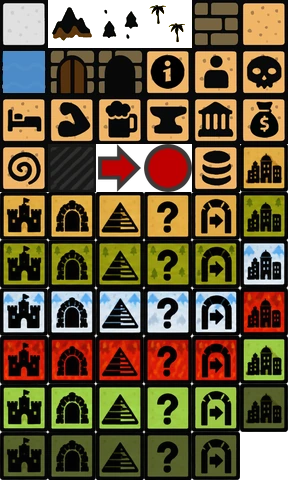
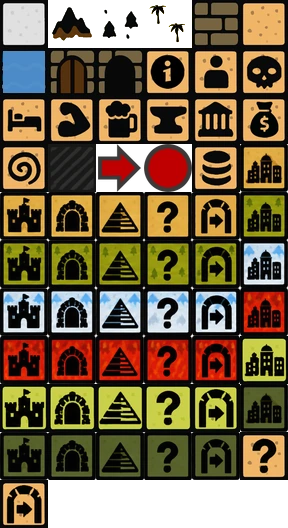
Auto-commit: 14 file(s) (docs/HANDOVER.md,docs/RPG_0.1.xlsx,public/assets/ui/minimap.json)

diff --git a/tools/assets/build-minimap.ts b/tools/assets/build-minimap.ts
@@ -36,9 +36,23 @@ const SHEET_GROUNDS = ["desert", "dirt", "snow", "forest", "lava"] as const;
  * by `target / its mean`, so the grain of the paint stays. Meadow is the forest's green made lighter and fresher, swamp its green made
  * darker and muddier. Black (frame, symbol) stays black.
  */
-const MADE_GROUNDS: Record<string, [number, number, number]> = { meadow: [152, 198, 66], swamp: [84, 94, 40] };
+const MADE_GROUNDS: Record<string, [number, number, number]> = { swamp: [84, 94, 40] };
 /** The grounds of the sheet in the register, as the game names them (`PlaceGround` in `minimapIcons.ts`). */
 const PLACE_GROUNDS = ["desert", "forest", "snow", "lava", "meadow", "swamp"] as const;
+/**
+ * Single tiles painted later to correct the colours of the sheet (the user's `tex_mm_<ground>_<symbol>.png`, 100 px, frame included). `grass`
+ * is the meadow, which was the desert row tinted green and came out too dull; `town` is the ground inside towns, castles and dungeons, where
+ * only the question mark and the way out are shown (`INTERIOR_GROUND`). The meadow has no way out (nothing draws one on the overworld), so
+ * that tile is the interior's one moved to the meadow's colour.
+ */
+const PAINTED_DIR = join(ROOT, "tools", "assets", "sources", "minimap", "tiles");
+const PAINTED: [string, string][] = [
+  ["town:meadow", "tex_mm_grass_town"], ["castle:meadow", "tex_mm_grass_castle"], ["dungeon:meadow", "tex_mm_grass_dungeon"],
+  ["pyramid:meadow", "tex_mm_grass_pyramid"], ["event:meadow", "tex_mm_grass_event"], ["event:town", "tex_mm_town_event"], ["exit:town", "tex_mm_town_exit"],
+];
+const paintedFile = (base: string): string => join(PAINTED_DIR, `${base}.png`);
+/** The tiles that exist only on the interior ground. */
+const INTERIOR_TILES = ["event:town", "exit:town"];
 
 /** The tiles that are the neutral ground in another colour: `name` in the register, source file. */
 const GROUNDS: [string, string][] = [
@@ -204,7 +218,7 @@ async function placeTiles(): Promise<Map<string, Buffer>> {
     }
   }
 
-  // meadow and swamp: the plain desert tiles with the colour of the ground moved to the wanted one
+  // the swamp: the plain desert tiles with the colour of the ground moved to the wanted one
   const sand = tiles.get("event:desert")!;
   const base = paintMean(sand);
   for (const [ground, target] of Object.entries(MADE_GROUNDS)) {
@@ -215,18 +229,26 @@ async function placeTiles(): Promise<Map<string, Buffer>> {
       tiles.set(`${kind}:${ground}`, made);
     }
   }
+
+  // the painted corrections replace what was made; the meadow's way out follows the interior's by the colour the question marks differ by
+  for (const [name, file] of PAINTED) tiles.set(name, (await raw(paintedFile(file))).data);
+  const from = paintMean(tiles.get("event:town")!);
+  const to = paintMean(tiles.get("event:meadow")!);
+  const exit = Buffer.from(tiles.get("exit:town")!);
+  for (let p = 0; p < exit.length; p += 4) for (let c = 0; c < 3; c++) exit[p + c] = Math.min(255, Math.round(exit[p + c]! * (to[c]! / from[c]!)));
+  tiles.set("exit:meadow", exit);
   return tiles;
 }
 
 export async function buildMinimap(): Promise<{ bytes: number }> {
   const out = join(OUT, "ui", "minimap.webp");
   const registerFile = join(OUT, "ui", "minimap.json");
-  const sources = [...SYMBOLS.map((s) => src(`tex_mm_${s}`)), ...GROUNDS.map(([, f]) => src(f)), ...DRAWINGS.flatMap(([, a, b]) => [src(a), src(b)]), src("tex_mm_snow"), PLACE_SHEET, join(import.meta.filename)];
+  const sources = [...SYMBOLS.map((s) => src(`tex_mm_${s}`)), ...GROUNDS.map(([, f]) => src(f)), ...DRAWINGS.flatMap(([, a, b]) => [src(a), src(b)]), src("tex_mm_snow"), PLACE_SHEET, ...PAINTED.map(([, f]) => paintedFile(f)), join(import.meta.filename)];
   if (upToDate(out, ...sources) && upToDate(registerFile, ...sources)) return { bytes: statSync(out).size + statSync(registerFile).size };
   ensureDir(out);
 
   // the sheet: neutral ground, three drawings, then the symbols
-  const places = PLACE_GROUNDS.flatMap((ground) => PLACE_KINDS.map((kind) => `${kind}:${ground}`));
+  const places = [...PLACE_GROUNDS.flatMap((ground) => PLACE_KINDS.map((kind) => `${kind}:${ground}`)), ...INTERIOR_TILES];
   const names = ["ground", "mountain", "trees", "palms", ...SYMBOLS, ...places];
   const sheetW = COLUMNS * CELL;
   const sheetH = Math.ceil(names.length / COLUMNS) * CELL;

diff --git a/src/game/minimapIcons.ts b/src/game/minimapIcons.ts
@@ -6,13 +6,13 @@ import { assetPath } from "../ui/dom";
  * the register's colours; mountains, trees and palms are drawings on a transparent ground that go on top. Tiles made this way are cached, so the
  * map draws from a handful of small canvases and the page loads one picture instead of 38. The places (town, castle, dungeon or cave, pyramid), the
  * question mark of events and the way out are painted tiles in six grounds (`mm_tiles.png`, see `build-minimap.ts`): on the overworld each stands on
- * the ground of its region, in an interior on the desert's, which is the colour of the old floor.
+ * the ground of its region, in an interior on the `town` ground, which is the colour of the old floor.
  */
 export type GroundName = "grass" | "forest" | "desert" | "snow" | "swamp" | "volcanic" | "dirt" | "bridge" | "floor" | "lava" | "cobble" | "shore";
 export type DrawingName = "mountain" | "trees" | "palms";
 /** The painted symbols of places and events; the ground is the colour of the tile they stand on. */
 export type PlaceName = "town" | "castle" | "dungeon" | "pyramid" | "event" | "exit";
-export type PlaceGround = "meadow" | "forest" | "desert" | "snow" | "swamp" | "lava";
+export type PlaceGround = "meadow" | "forest" | "desert" | "snow" | "swamp" | "lava" | "town";
 /** `event` and `exit` are the painted tiles on the interior ground (`INTERIOR_GROUND`). */
 export type SymbolName =
   | "wall" | "floor" | "water" | "door" | "door_open" | "event" | "info" | "persona" | "trap" | "exit"
@@ -32,8 +32,8 @@ const DERIVED: Partial<Record<GroundName, { from: string; by: [number, number, n
   shore: { from: "desert", by: [0.95, 0.95, 0.95] },
 };
 
-/** The ground the painted tiles have inside a town, castle, dungeon or cave: the old floor's colour. */
-const INTERIOR_GROUND: PlaceGround = "desert";
+/** The ground the painted tiles have inside a town, castle, dungeon or cave: the old floor's colour (only `event` and `exit` are painted on it). */
+const INTERIOR_GROUND: PlaceGround = "town";
 
 /** The painted ground that goes with a ground of the overworld map (the sheet has no cobblestone, bridge or plain dirt tile). */
 const PLACE_GROUND: Record<GroundName, PlaceGround> = {

diff --git a/tests/unit/minimapPlaces.test.ts b/tests/unit/minimapPlaces.test.ts
@@ -45,6 +45,8 @@ describe("the painted tiles of places, events and ways out on the map sheet", ()
         expect(at!.y + register.cell, `${kind}:${ground}`).toBeLessThanOrEqual(register.height);
       }
     }
+    // the interior's question mark and way out have their own ground (the old floor's colour)
+    for (const name of ["event:town", "exit:town"]) expect(register.icons[name], name).toBeDefined();
     // the plain old symbols for these were replaced
     expect(register.icons.maptransfer).toBeUndefined();
     expect(register.icons.event).toBeUndefined();

diff --git a/docs/HANDOVER.md b/docs/HANDOVER.md
@@ -610,6 +610,7 @@ Der Nutzer lieferte `.ignore/mm_tiles.png` (6 Symbole × 5 Böden, transparenter
 - **Wiese (hellgrün) und Sumpf** fehlten und kommen aus der Wüstenzeile (ohne Zeichnung): Farbe × `Ziel / Mittel` (`MADE_GROUNDS`: Wiese 152/198/66, Sumpf 84/94/40), Schwarz bleibt schwarz, die Maserung bleibt.
 - **Überwelt:** Orte (Größe 1 bis 3 Kacheln) zeichnen `drawPlace` mit dem Boden ihrer Kachel (`groundName` → `placeGroundOf`; Lavainsel = rote Kachel); Dungeon und Höhle teilen das Symbol, die Pyramide hat ihr eigenes. Die Rahmenfarben (`POI_FRAME`) und das Altsymbol `maptransfer` entfallen, die Legende zeigt die Symbole („Dungeon or cave“). Ereignisse (Maskottchen, Hütten, Karawanen) zeigen das Fragezeichen auf dem Boden ihrer Kachel.
 - **Innenräume (Städte, Burgen, Dungeons, Höhlen):** Ausgang (`exit`) und Truhe/Brunnen/Schrein (`event`) stehen auf der Wüstenkachel, die der Farbe des Altbodens am nächsten kommt (Mittel 224/171/68 gegen 236/178/102).
+- **Korrektur der Farben (2026-10-25):** Der Nutzer lieferte sieben Einzelkacheln (`.ignore/mm-tiles_new/`, 100 px, jetzt `tools/assets/sources/minimap/tiles/`): `tex_mm_grass_{town,castle,dungeon,pyramid,event}` ersetzen die aus der Wüste gefärbte **Wiese** (Wiese ist nicht mehr in `MADE_GROUNDS`, nur der Sumpf); `tex_mm_town_{event,exit}` sind der neue Boden **`town`** der Innenräume (`INTERIOR_GROUND` ist jetzt `town` statt `desert`, das Blatt hat `event:town` und `exit:town`). Den Ausgang der Wiese gibt es nicht gemalt, er ist `exit:town` mal Farbverhältnis der beiden Fragezeichen (`PAINTED` in `build-minimap.ts`; die Überwelt zeichnet keinen Ausgang).
 - **Nicht eingebaut:** die braune Zeile (Erde). Kein Boden der Karte hat dafür eine Stelle (Straße, Pass und Brücke tragen keine Orte, die Lavainsel hat die rote Zeile); sie liegt in der Quelle für spätere Böden bereit.
 - Tests: `tests/unit/minimapPlaces.test.ts` (alle 36 Kacheln im Register, Wiese heller grün als Wald, Sumpf dunkler, Legende ohne Rahmen).
 
